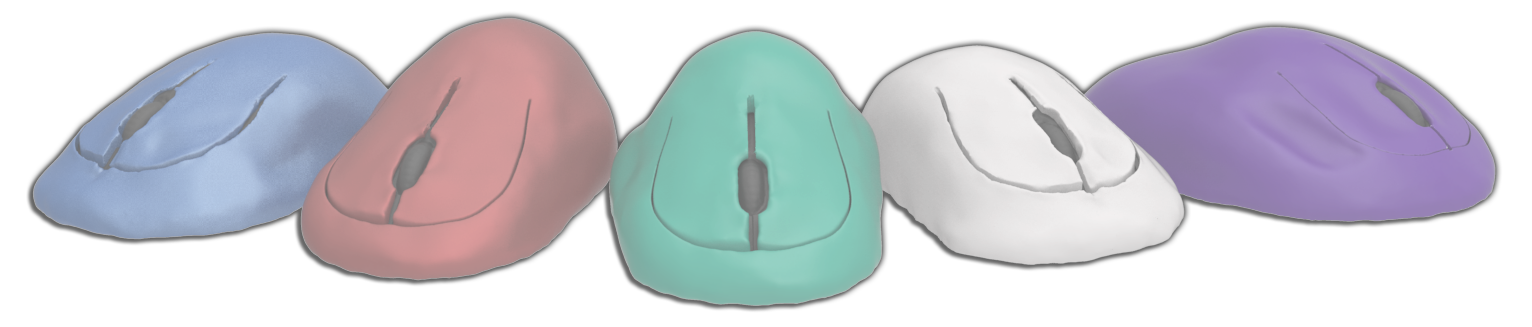
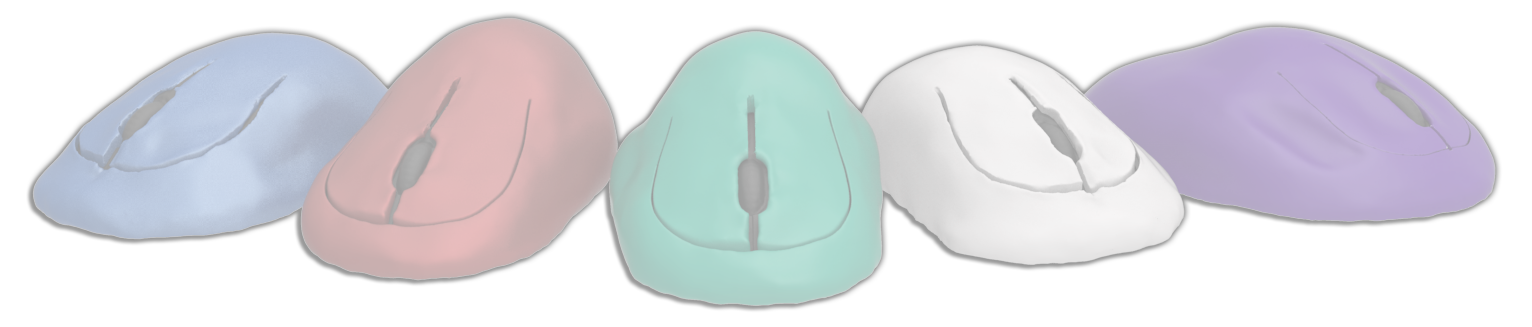
more opaque

diff --git a/style.css b/style.css
@@ -1,5 +1,5 @@
 body {
-    background-color: black;
+    background-color: #101010;
     font-family: 'Montserrat', sans-serif;
     color: white;
 }
